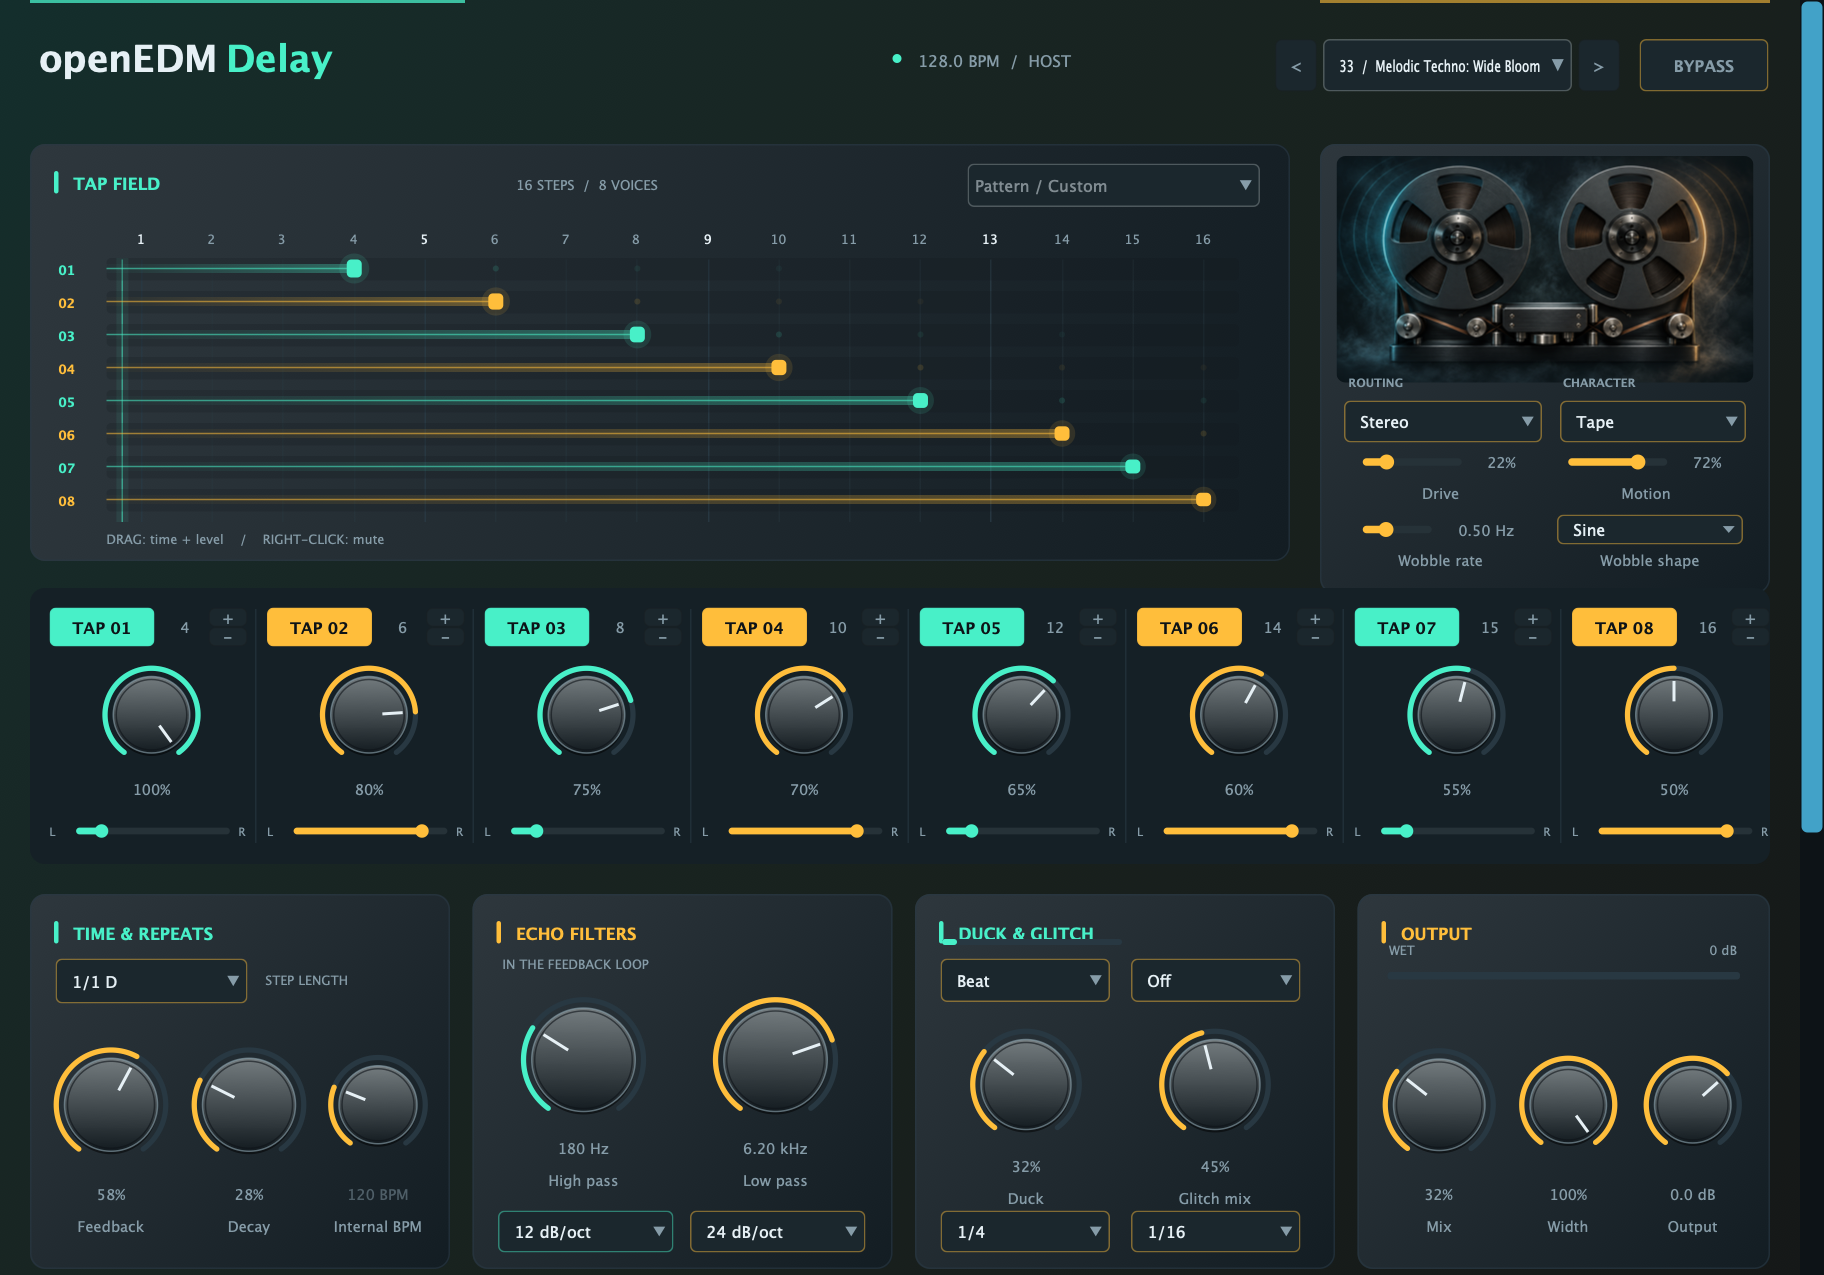
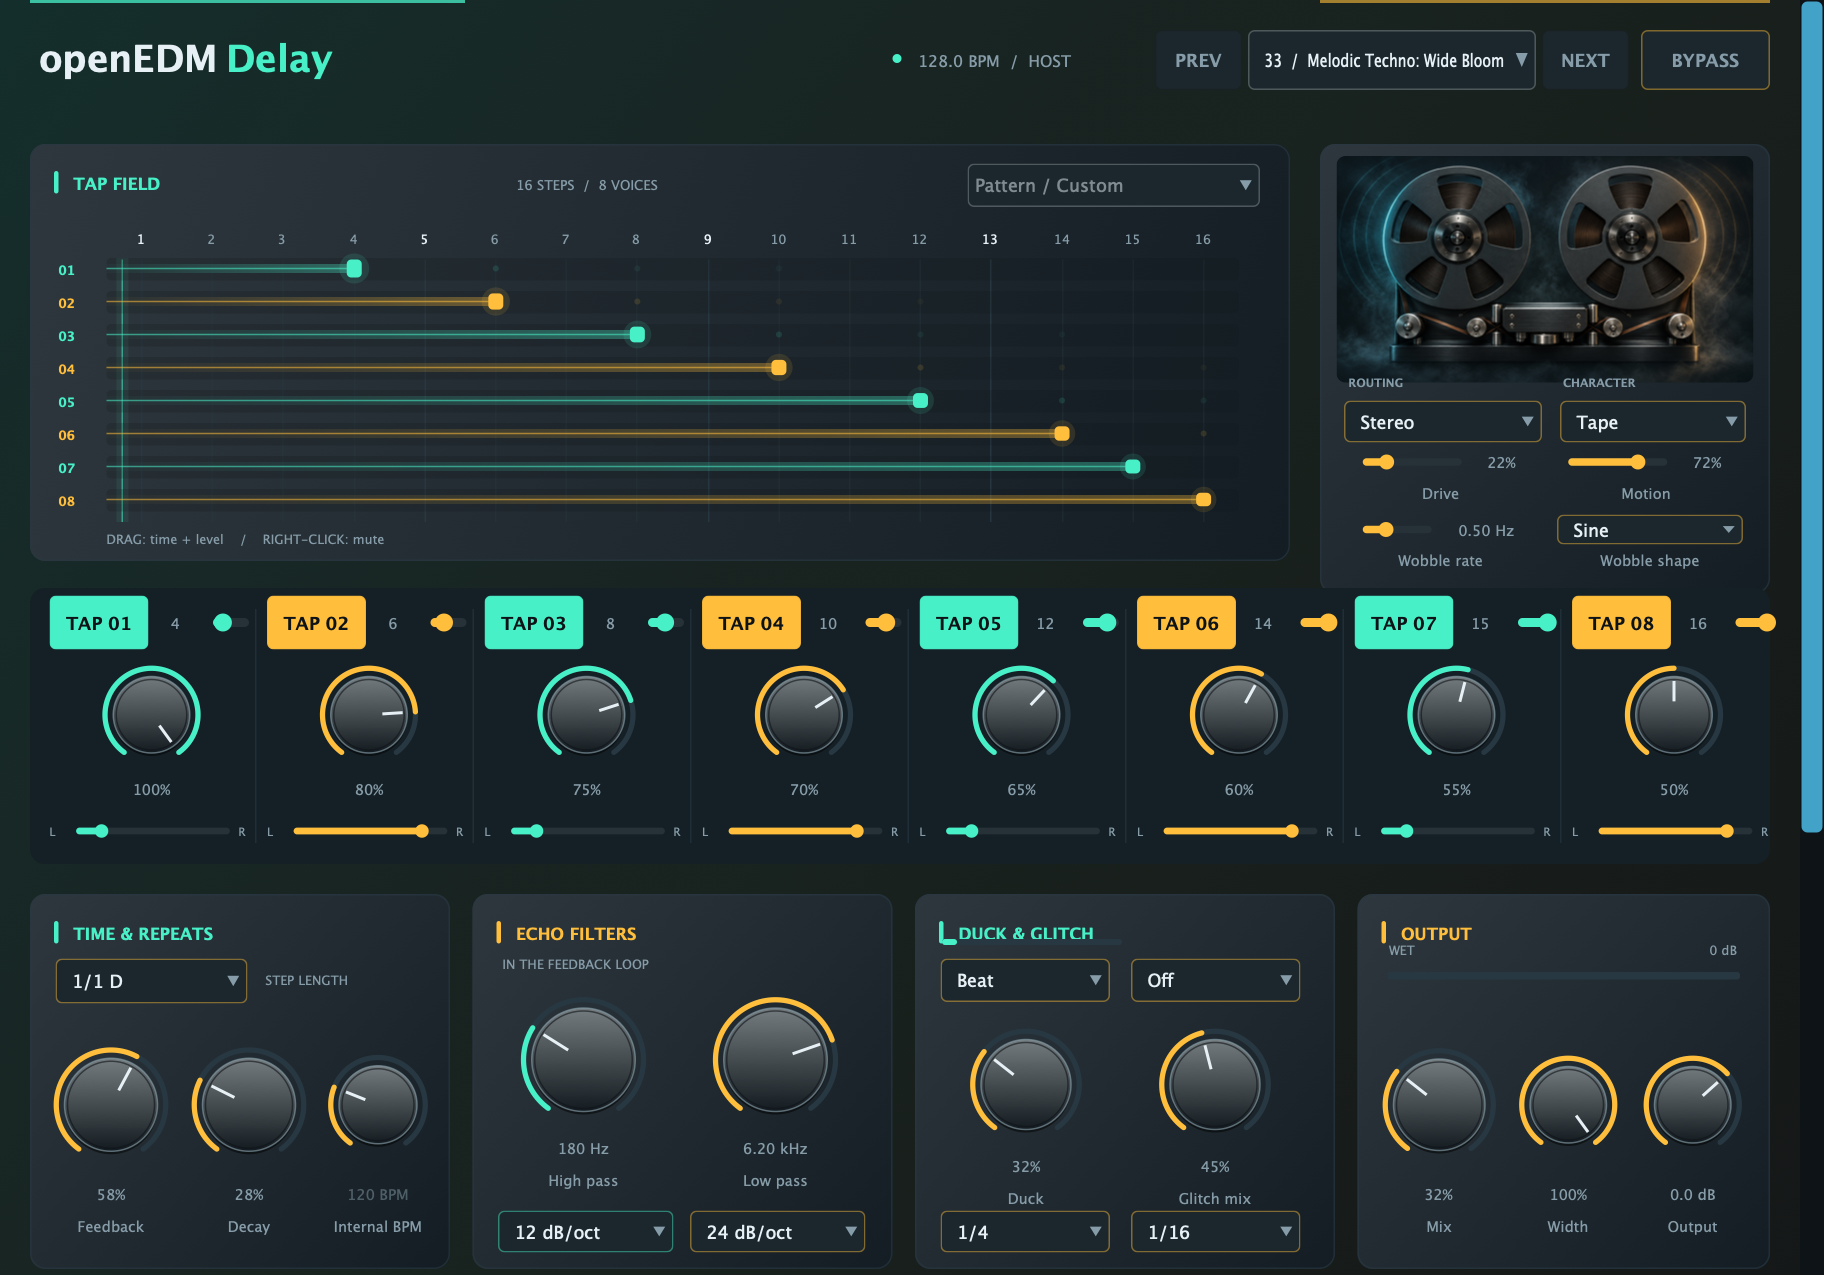
Enlarge openEDMDelay editor controls

diff --git a/Source/Plugin/PluginEditor.cpp b/Source/Plugin/PluginEditor.cpp
@@ -111,15 +111,16 @@ void DelayEditor::makeControl(int i) {
     const auto colour=i>=baseCount?accent((i-baseCount)/4):(i==highPass||i==hpSlope?theme::kAccentA:theme::kAccentB);
     auto label=std::make_unique<juce::Label>();label->setText(spec.name,juce::dontSendNotification);label->setJustificationType(juce::Justification::centred);label->setFont(juce::FontOptions(11.5f));label->setColour(juce::Label::textColourId,theme::kTextDim);content.addAndMakeVisible(*label);labels[static_cast<std::size_t>(i)]=std::move(label);
     if(i==bypass||(i>=baseCount&&i<swing&&(i-baseCount)%4==0)) {
-        auto c=std::make_unique<juce::TextButton>(i==bypass?"BYPASS":"TAP "+juce::String((i-baseCount)/4+1).paddedLeft('0',2));
+        const int tapNumber=(i-baseCount)/4+1;
+        auto c=std::make_unique<juce::TextButton>(i==bypass?"BYPASS":"TAP "+juce::String(tapNumber).paddedLeft('0',2));
         c->setClickingTogglesState(true);c->setColour(juce::TextButton::buttonOnColourId,i==bypass?theme::kAccentB:colour);
-        c->setComponentID(spec.id);content.addAndMakeVisible(*c);buttons.push_back(std::make_unique<juce::AudioProcessorValueTreeState::ButtonAttachment>(owner.parameters,spec.id,*c));controls[static_cast<std::size_t>(i)]=std::move(c);
+        c->setComponentID(spec.id);c->setTooltip(i==bypass?"Bypass the delay effect.":"Enable or bypass tap "+juce::String(tapNumber)+".");content.addAndMakeVisible(*c);buttons.push_back(std::make_unique<juce::AudioProcessorValueTreeState::ButtonAttachment>(owner.parameters,spec.id,*c));controls[static_cast<std::size_t>(i)]=std::move(c);
     } else if(spec.choices.isNotEmpty()) {
         auto c=std::make_unique<juce::ComboBox>();c->addItemList(juce::StringArray::fromTokens(spec.choices,"|",""),1);c->setColour(juce::ComboBox::outlineColourId,colour);c->setComponentID(spec.id);content.addAndMakeVisible(*c);combos.push_back(std::make_unique<juce::AudioProcessorValueTreeState::ComboBoxAttachment>(owner.parameters,spec.id,*c));controls[static_cast<std::size_t>(i)]=std::move(c);
     } else {
         auto c=std::make_unique<juce::Slider>();c->setLookAndFeel(&look);c->setSliderStyle(juce::Slider::RotaryHorizontalVerticalDrag);c->setTextBoxStyle(juce::Slider::TextBoxBelow,false,86,22);c->setColour(juce::Slider::rotarySliderFillColourId,colour);c->setComponentID(spec.id);c->setDoubleClickReturnValue(true,spec.initial);
         const bool step=spec.id.endsWith("Step"),pan=i>=baseCount&&i<swing&&(i-baseCount)%4==3;
-        if(step){c->setSliderStyle(juce::Slider::IncDecButtons);c->setTextBoxStyle(juce::Slider::TextBoxLeft,false,32,24);c->setIncDecButtonsMode(juce::Slider::incDecButtonsDraggable_Vertical);}
+        if(step){c->setSliderStyle(juce::Slider::LinearHorizontal);c->setTextBoxStyle(juce::Slider::TextBoxLeft,false,32,36);c->setColour(juce::Slider::trackColourId,colour);c->setColour(juce::Slider::thumbColourId,colour);c->setMouseDragSensitivity(180);}
         if(i==drive||i==motion||i==wobbleRate){c->setSliderStyle(juce::Slider::LinearHorizontal);c->setTextBoxStyle(juce::Slider::TextBoxRight,false,i==wobbleRate?58:38,22);c->setColour(juce::Slider::trackColourId,colour);c->setColour(juce::Slider::thumbColourId,colour);}
         if(pan){c->setSliderStyle(juce::Slider::LinearHorizontal);c->setTextBoxStyle(juce::Slider::NoTextBox,false,0,0);c->setColour(juce::Slider::trackColourId,colour);c->setColour(juce::Slider::thumbColourId,colour);}
         content.addAndMakeVisible(*c);sliders.push_back(std::make_unique<juce::AudioProcessorValueTreeState::SliderAttachment>(owner.parameters,spec.id,*c));
@@ -158,15 +159,15 @@ void DelayEditor::resized() {
         const int id=tapExtraStart+tap*tapExtraCount+field;
         const bool visible=tap==selectedTap.getSelectedId()-1;
         controls[static_cast<std::size_t>(id)]->setVisible(visible);labels[static_cast<std::size_t>(id)]->setVisible(visible);
-        if(visible)place(id,{324+field*107,(field==1||field==2||field==5||field==7)?982:948,98,(field==1||field==2||field==5||field==7)?28:104});
+        if(visible)place(id,{324+field*107,(field==1||field==2||field==5||field==7)?982:948,98,(field==1||field==7)?36:((field==2||field==5)?28:104)});
     }
-    prevPreset.setBounds(850,26,28,35);preset.setBounds(882,26,166,35);nextPreset.setBounds(1052,26,28,35);place(bypass,{1093,26,86,35},false);pattern.setBounds(645,109,195,29);grid.setBounds(39,149,801,220);
+    prevPreset.setBounds(770,20,58,40);preset.setBounds(832,20,192,40);nextPreset.setBounds(1028,20,58,40);place(bypass,{1094,20,86,40},false);pattern.setBounds(645,109,195,29);grid.setBounds(39,149,801,220);
     place(routing,{896,267,132,28},false);place(character,{1040,267,124,28},false);
     place(drive,{901,298,119,20});place(motion,{1038,298,119,20});
     place(wobbleRate,{901,343,119,20});place(wobbleShape,{1038,343,124,20});
     for(int i=0;i<tapCount;++i) {
         const int x=31+i*145,p=baseCount+i*4;
-        place(p,{x+2,405,70,26},false);place(p+1,{x+79,405,57,26},false);
+        place(p,{x+2,397,66,36},false);place(p+1,{x+70,397,74,36},false);
         place(p+2,{x+26,438,88,99},false);place(p+3,{x+13,545,116,18},false);
     }
     place(gridRate,{37,639,128,30},false);

diff --git a/Source/Plugin/PluginEditor.h b/Source/Plugin/PluginEditor.h
@@ -42,7 +42,7 @@ private:
     std::vector<std::unique_ptr<juce::AudioProcessorValueTreeState::ComboBoxAttachment>> combos;
     std::vector<std::unique_ptr<juce::AudioProcessorValueTreeState::ButtonAttachment>> buttons;
     juce::ComboBox preset,pattern,selectedTap;
-    juce::TextButton prevPreset{"<"}, nextPreset{">"};
+    juce::TextButton prevPreset{"PREV"}, nextPreset{"NEXT"};
     juce::TooltipWindow tooltip{this,650};
     int shownProgram=-1;
 };

diff --git a/Source/Plugin/DelayLookAndFeel.cpp b/Source/Plugin/DelayLookAndFeel.cpp
@@ -7,7 +7,7 @@ namespace {
 
 constexpr float kArcThickness = 3.5f;
 constexpr float kCornerRadius = 4.0f;
-constexpr float kControlFontSize = 12.5f;
+constexpr float kControlFontSize = 14.0f;
 
 } // namespace
 

diff --git a/README.md b/README.md
@@ -1,4 +1,4 @@
-# openEDMDelay v1.2.0
+# openEDMDelay v1.2.1
 
 An eight-tap, beat-synced delay. Routing is stereo, ping-pong, or mono. Characters are digital, tape, BBD, and lo-fi.
 
@@ -28,7 +28,7 @@ Drive applies to Tape and BBD; Motion applies to Tape. Tap pan applies to Stereo
 
 ![openEDMDelay tap performance, groove, filters, hold, and diffusion controls](docs/screenshots/openEDMDelay-performance.png)
 
-These are captures of the compiled JUCE editor, taken by the integration test with a simulated 128 BPM host. The tape illustration is original generated artwork embedded in that editor.
+These three images were captured from the compiled v1.2.1 JUCE editor on macOS on 2026-11-17 by the integration test with a simulated 128 BPM host. The tape illustration is original generated artwork embedded in that editor.
 
 Each tap also has a Chance control (0–100%), 1–8 evenly spaced ratchets across one grid unit, optional 12 dB/oct high/low-pass filters, Digital/Tape/BBD/Lo-fi colour and drive. These shape the tap output after the global feedback character. Ratchets divide the tap level to retain headroom. Chance is deterministic per source phrase and tap, so playback and host seeks reproduce the same decisions.
 
